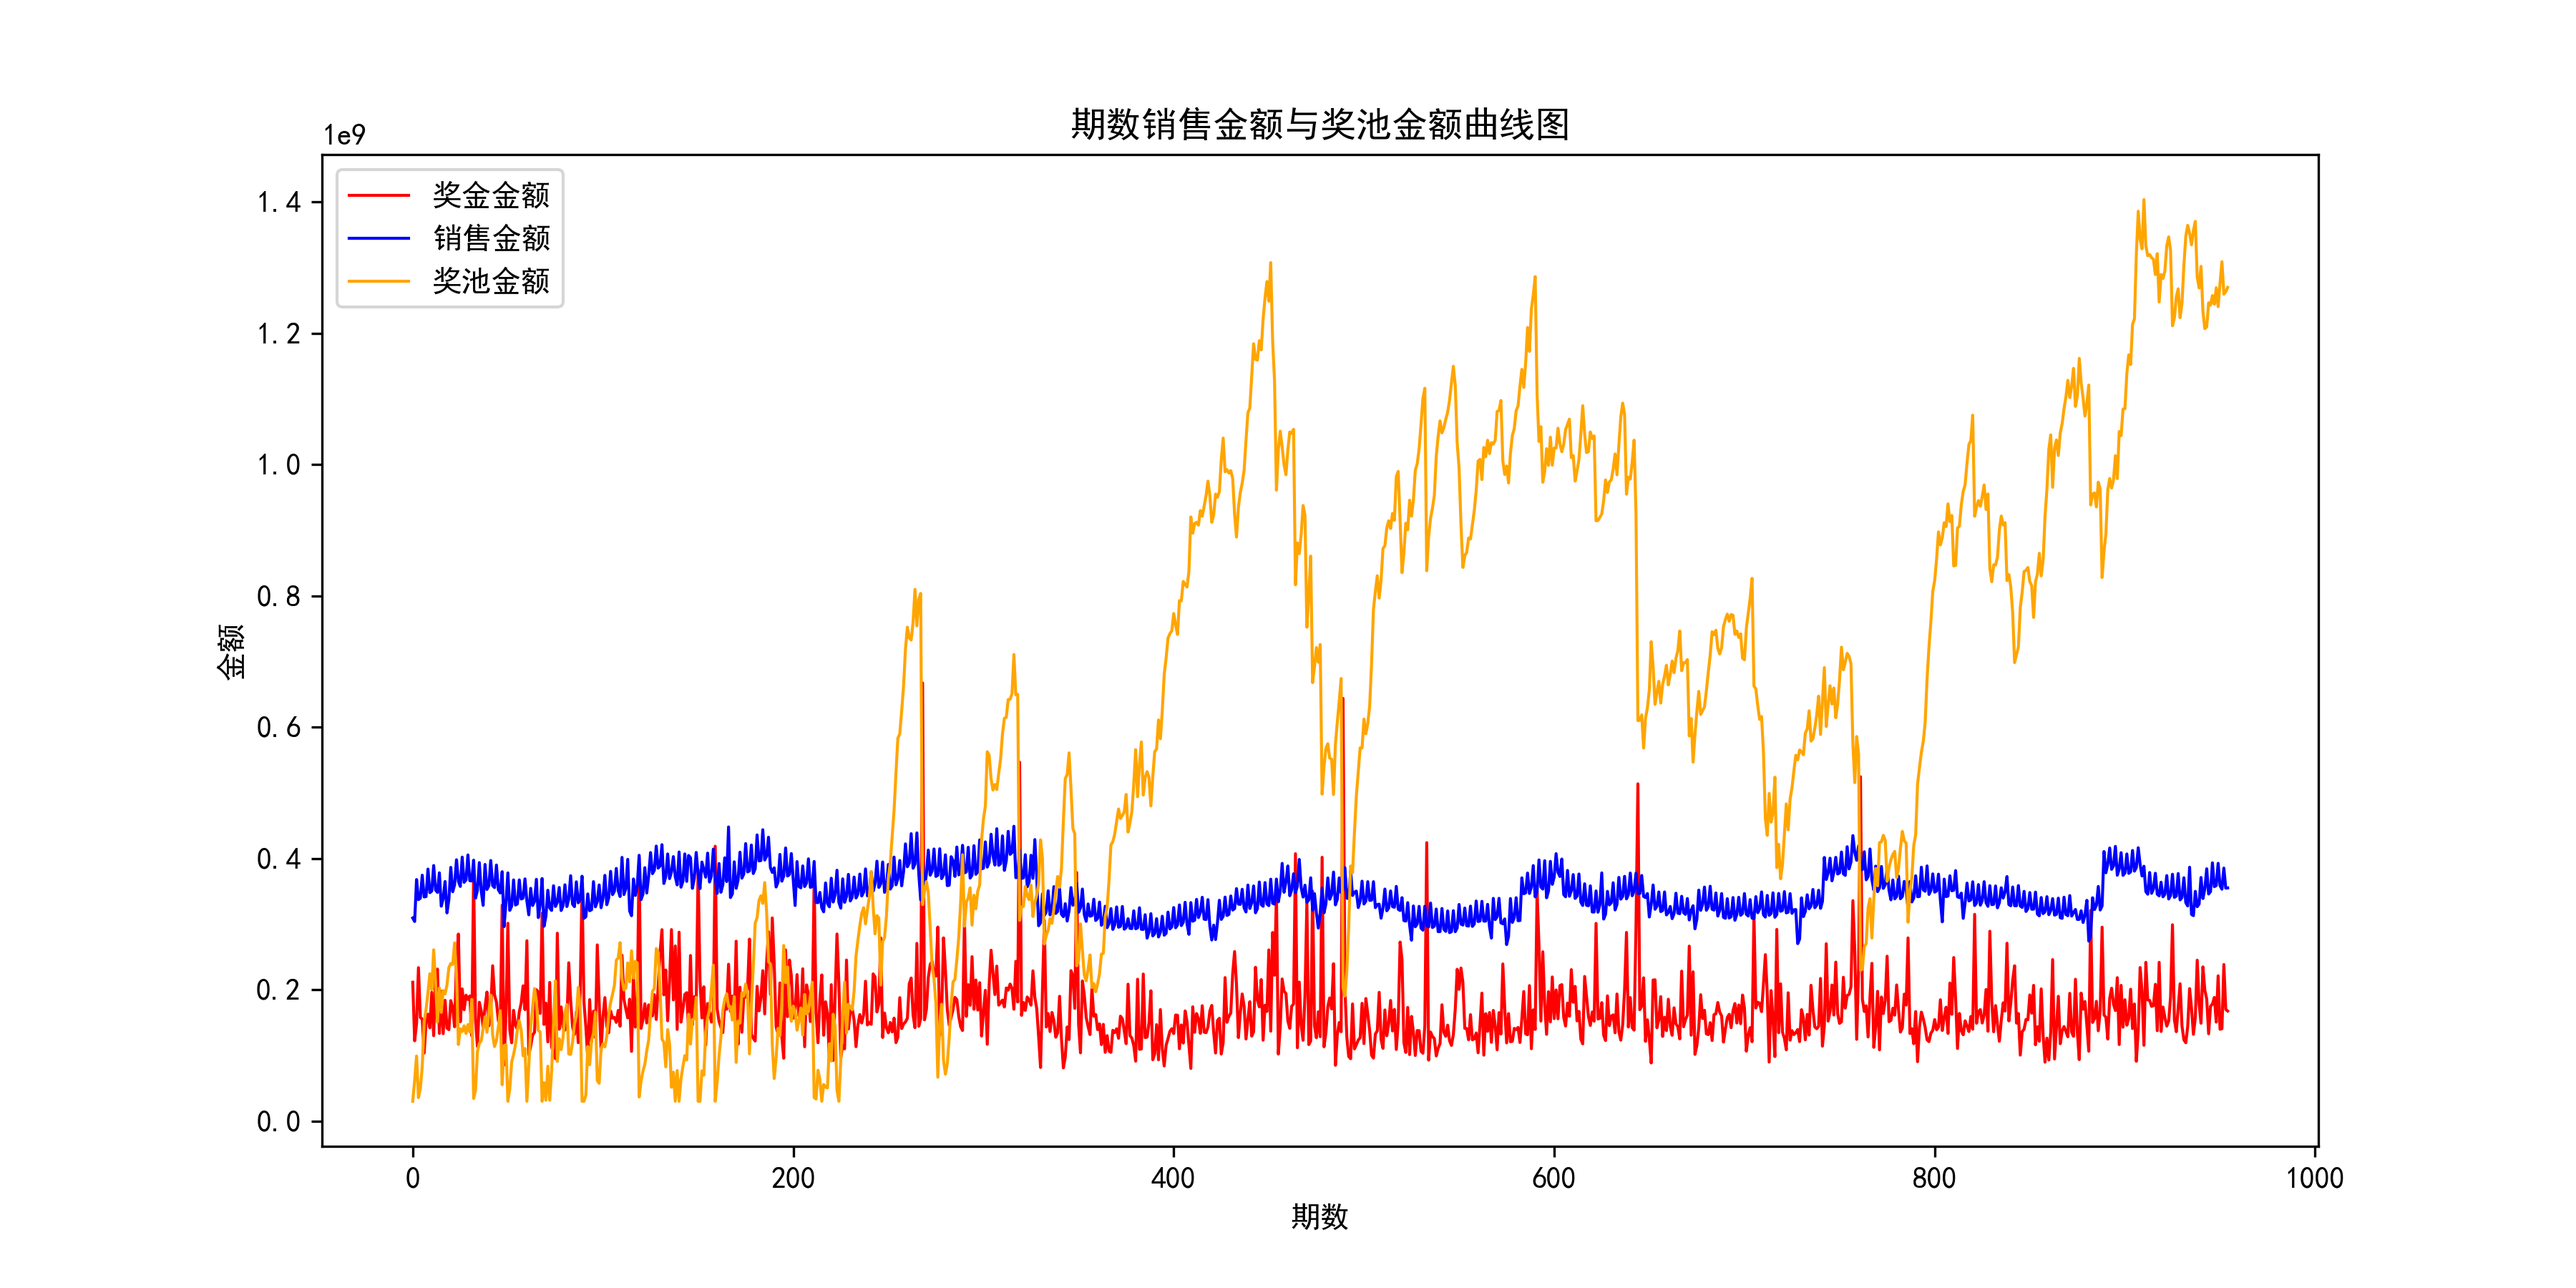
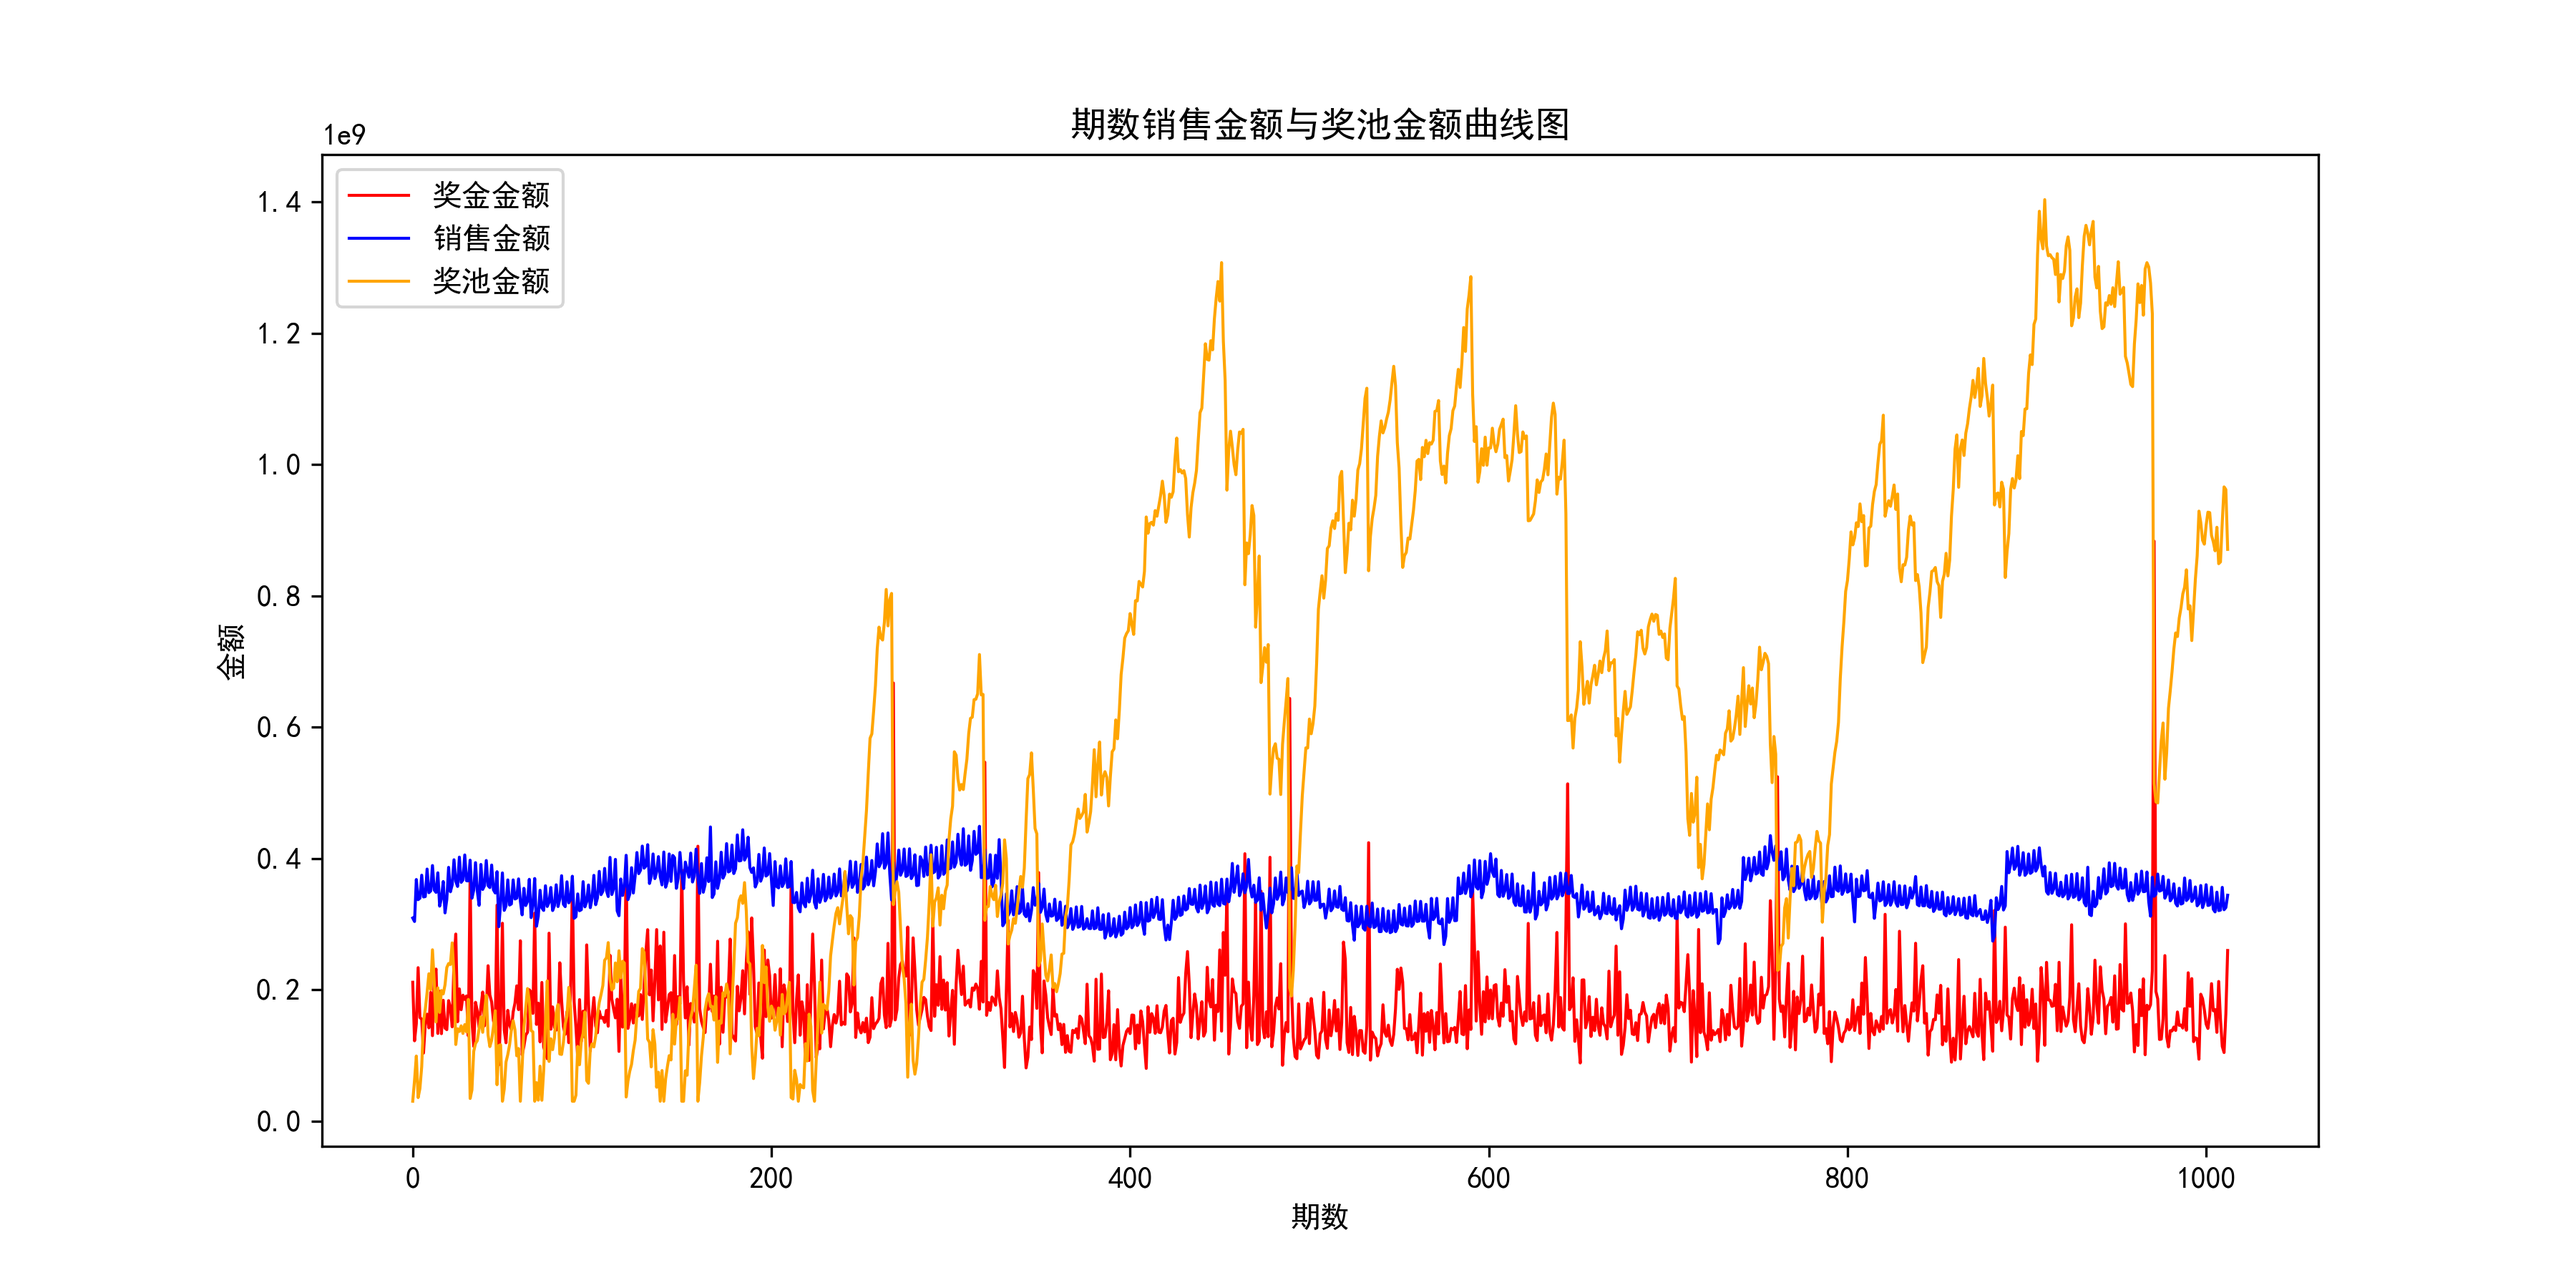
更新最新数据

diff --git a/lotteryanalysis/datavisual.py b/lotteryanalysis/datavisual.py
@@ -206,14 +206,14 @@ def area_statistics_visual():
         pyplot.text(x, y + 3, x, ha='center', fontsize=7)
     area_path = os.path.join(file_path, "..", "docs", "image", "AreaWinningCount.png")
     pyplot.savefig(area_path.format(os.getcwd()), dpi=300)
-    # pyplot.show()
+    pyplot.show()
     pyplot.clf()
     pyplot.figure()
     area_data_pie = sorted(area_data.items(), key=lambda x: x[0], reverse=False)
     pyplot.pie([x[1] for x in area_data_pie], labels=[x[0] for x in area_data_pie])
-    area_pie_path = os.path.join(file_path, "..", "docs", "image", "RedBallsStatistics.png")
+    area_pie_path = os.path.join(file_path, "..", "docs", "image", "AreaWinningCountPie.png")
     pyplot.savefig(area_pie_path.format(os.getcwd()), dpi=300)
-    # pyplot.show()
+    pyplot.show()
 
 
 def sales_money_visual():
@@ -234,7 +234,7 @@ def sales_money_visual():
     pyplot.plot(range(0, pool_sales_money.__len__()), pool_sales_money, color="orange",
                 linewidth=1, linestyle="-", label="奖池金额")
     legend(loc='upper left')
-    sales_money_path = os.path.join(file_path, "..", "docs", "image", "RedBallsStatistics.png")
+    sales_money_path = os.path.join(file_path, "..", "docs", "image", "SalesMoney.png")
     pyplot.savefig(sales_money_path.format(os.getcwd()), dpi=300)
     # pyplot.show()
 
@@ -299,10 +299,10 @@ def blue_visual():
 
 
 if __name__ == "__main__":
-    # sales_money_visual()
-    # difference_prize_visual()
-    # blue_statistics_visual()
-    # red_statistics_visual()
-    # ball_sum_visual()
-    # area_statistics_visual()
+    sales_money_visual()
+    difference_prize_visual()
+    blue_statistics_visual()
+    red_statistics_visual()
+    ball_sum_visual()
+    area_statistics_visual()
     winners_of_lottery()

diff --git a/lotteryanalysis/sqliteoperator.py b/lotteryanalysis/sqliteoperator.py
@@ -26,7 +26,7 @@ class sqliteoperator:
 
     def insert_lottery_results(self, lottery_results):
         c = self.conn.cursor()
-        latest_lottery_date = self.get_latest_lottery()[1]
+        latest_lottery_date = self.get_latest_lottery()[0][1]
         for lottery in lottery_results:
             insert_sql = "INSERT INTO lottery_summary(ID,lottery_date,week,redballs,blueballs,content,sales,poolmoney,prizegrades)" \
                          " VALUES (\"{0}\",\"{1}\",\"{2}\",\"{3}\",\"{4}\",\"{5}\",\"{6}\",\"{7}\",\"{8}\")".format(
@@ -39,7 +39,7 @@ class sqliteoperator:
 
     def get_latest_lottery(self):
         c = self.conn.cursor()
-        select_sql = "SELECT * FROM lottery_summary ORDER BY lottery_date DESC LIMIT 10"
+        select_sql = "SELECT * FROM lottery_summary ORDER BY lottery_date DESC LIMIT 1"
         cursor = c.execute(select_sql)
         lottery = []
         for row in cursor:
